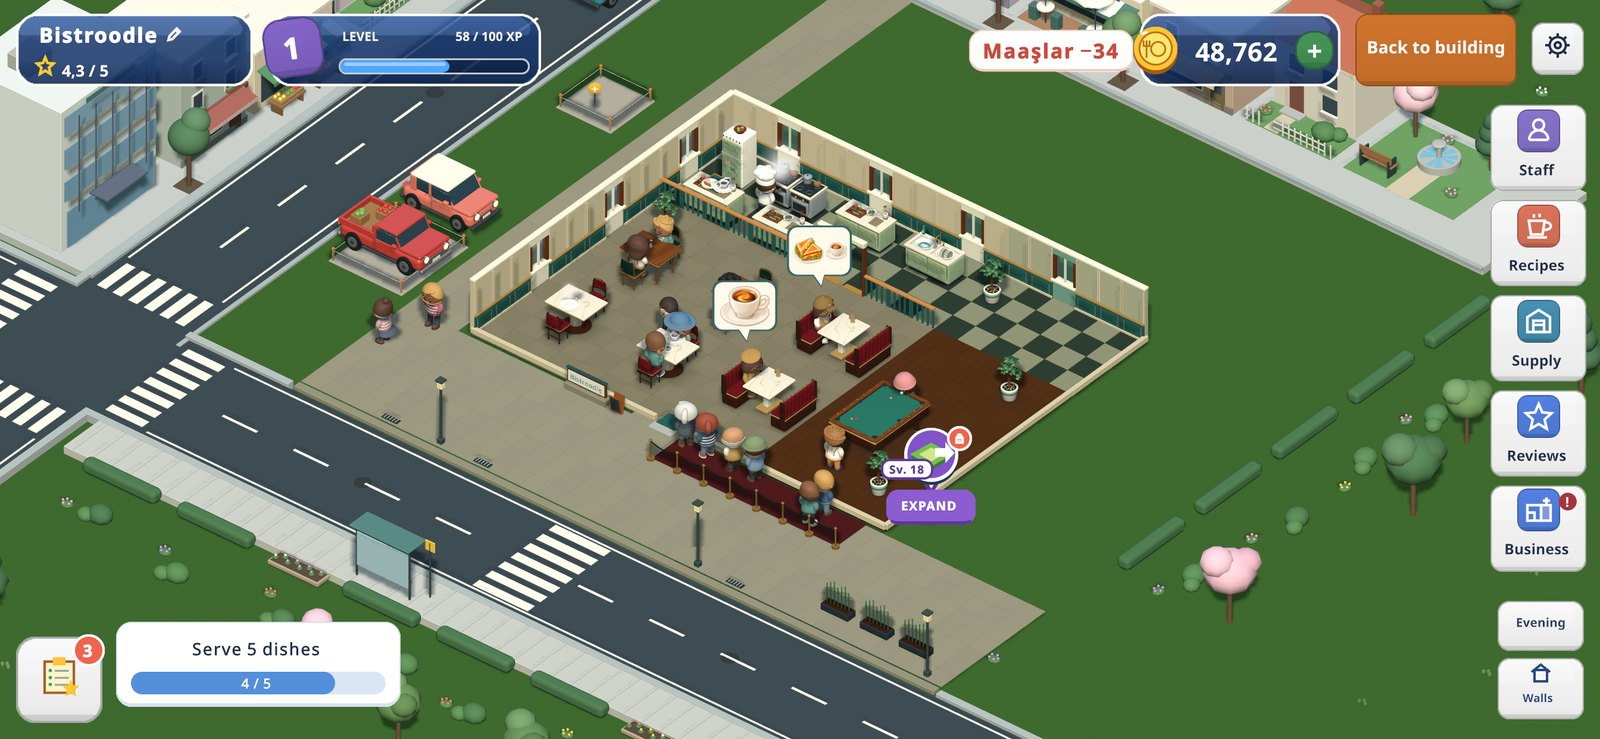
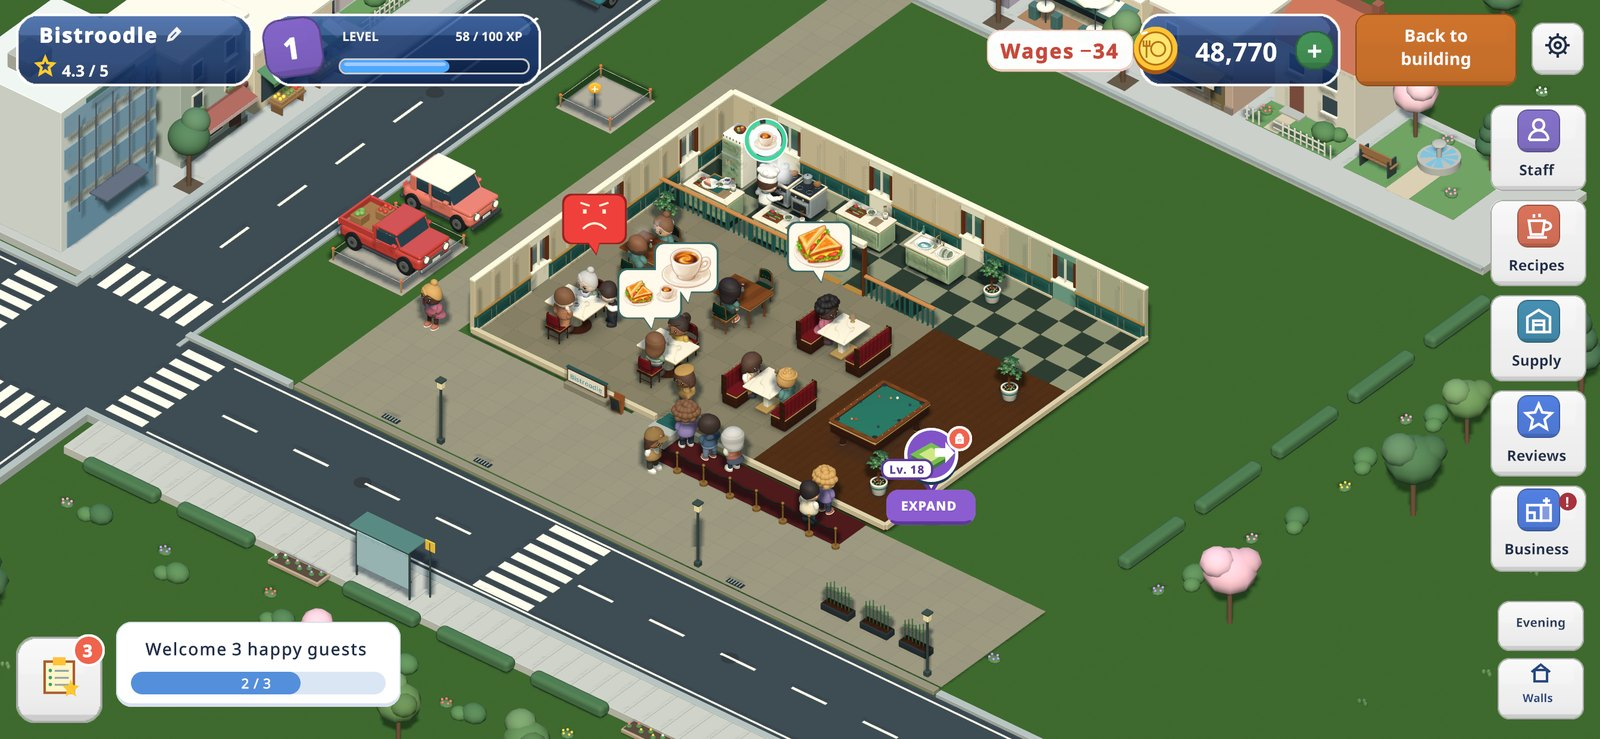
English phone shot without leftover Turkish labels
Recaptured after the game's localization fix: the wage pop and level tag
now read "Wages −34" and "Lv. 18". The image URL is versioned so browsers
fetch the new one.

diff --git a/index.html b/index.html
@@ -65,7 +65,7 @@
           </div>
           <div class="project-stage landscape-stage">
             <span class="stage-top" data-i18n="stageTop">SMALL SPACE. BIG PLANS.</span><div class="stage-grid" aria-hidden="true"></div>
-            <div class="phone is-landscape"><div class="phone-island" aria-hidden="true"></div><img src="assets/images/bistroodle-phone-en.jpg" data-image-en="assets/images/bistroodle-phone-en.jpg" data-image-tr="assets/images/bistroodle-phone-tr.jpg" alt="Bistroodle on a phone: guests ordering coffee and sandwiches, with staff, recipes and supplies buttons" data-i18n-alt="phoneAlt" width="1600" height="739" loading="lazy"></div>
+            <div class="phone is-landscape"><div class="phone-island" aria-hidden="true"></div><img src="assets/images/bistroodle-phone-en.jpg?v=20261113" data-image-en="assets/images/bistroodle-phone-en.jpg?v=20261113" data-image-tr="assets/images/bistroodle-phone-tr.jpg" alt="Bistroodle on a phone: guests ordering coffee and sandwiches, with staff, recipes and supplies buttons" data-i18n-alt="phoneAlt" width="1600" height="739" loading="lazy"></div>
             <span class="stage-bottom" data-i18n="stageBottom">REAL GAME SCREENSHOT / DEVELOPMENT BUILD</span>
           </div>
         </article>
